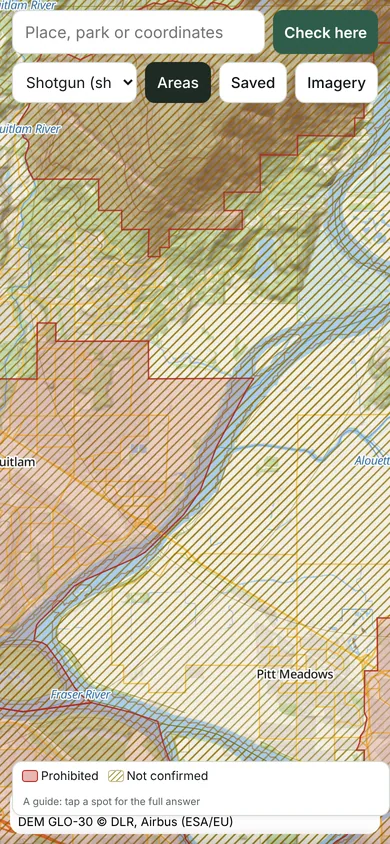
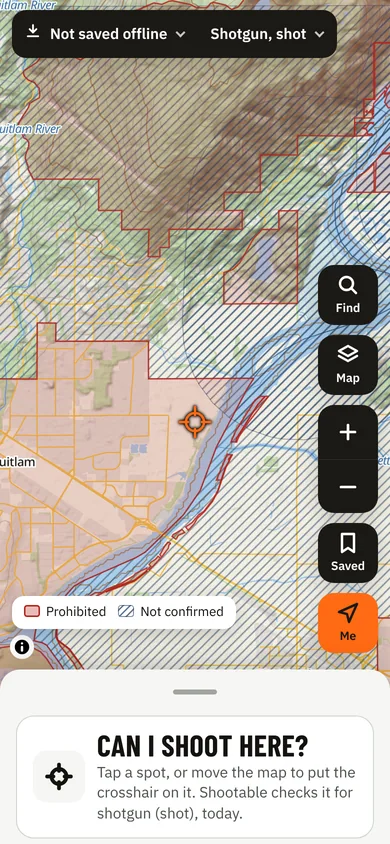
App screens recaptured on the new app and the Nov 8 BC pack (#8)
Mirrors shootable web/ (PR #44): Merritt answer opened with what applies there, Tri-Cities shading for rifle and
shotgun with shot, captions and alt text.

diff --git a/index.html b/index.html
@@ -461,11 +461,11 @@ dialog.ea::backdrop{background:rgba(20,18,15,.72)}
 </div>
 <div class="pair">
 <figure class="on" data-fig="rifle">
-<div class="phone"><img src="img/app-tricities-rifle.webp" srcset="img/app-tricities-rifle-1x.webp 390w, img/app-tricities-rifle.webp 780w" sizes="340px" width="390" height="844" loading="lazy" alt="Shootable's map of Coquitlam and Pitt Meadows with Rifle chosen: both towns shaded red for Prohibited, the hills to the north and the river corridors hatched for Not confirmed."></div>
+<div class="phone"><img src="img/app-tricities-rifle.webp" srcset="img/app-tricities-rifle-1x.webp 390w, img/app-tricities-rifle.webp 780w" sizes="340px" width="390" height="844" loading="lazy" alt="Shootable's map of Coquitlam and Pitt Meadows with Rifle chosen: both towns shaded red for Prohibited, the hills to the north and the river corridors hatched navy for Not confirmed."></div>
 <figcaption><b>Rifle</b><span>Coquitlam and Pitt Meadows ban rifles town-wide, so both towns are red.</span></figcaption>
 </figure>
 <figure data-fig="shot">
-<div class="phone"><img src="img/app-tricities-shot.webp" srcset="img/app-tricities-shot-1x.webp 390w, img/app-tricities-shot.webp 780w" sizes="340px" width="390" height="844" loading="lazy" alt="The same map with Shotgun with shot chosen: Coquitlam and Pitt Meadows now hatched for Not confirmed instead of red."></div>
+<div class="phone"><img src="img/app-tricities-shot.webp" srcset="img/app-tricities-shot-1x.webp 390w, img/app-tricities-shot.webp 780w" sizes="340px" width="390" height="844" loading="lazy" alt="The same map with Shotgun with shot chosen: Coquitlam and Pitt Meadows now hatched navy for Not confirmed instead of red."></div>
 <figcaption><b>Shotgun with shot</b><span>Their bylaws allow shot in mapped zones. Until Shootable has checked those maps, the towns are Not confirmed.</span></figcaption>
 </figure>
 </div>
@@ -474,7 +474,7 @@ dialog.ea::backdrop{background:rgba(20,18,15,.72)}
 <li><span class="sw un" aria-hidden="true"></span><b>Not confirmed</b>A boundary isn't checked yet, or a town's bylaw isn't verified.</li>
 <li><span class="sw cl" aria-hidden="true"></span><b>Unshaded</b>No rule Shootable checks bans it. Tap for the answer and the rules that apply everywhere.</li>
 </ul>
-<p class="fineprint">The shading is a guide built from the same rules as the answer. The answer for the spot you tap, with your GPS accuracy taken into account, is the one to go by. Real screens from the app, BC rules of Nov 4, 2026. Map © OpenStreetMap contributors.</p>
+<p class="fineprint">The shading is a guide built from the same rules as the answer. The answer for the spot you tap, with your GPS accuracy taken into account, is the one to go by. Real screens from the app, BC rules of Nov 8, 2026. Map © OpenStreetMap contributors.</p>
 </div>
 </section>
 
@@ -521,8 +521,8 @@ dialog.ea::backdrop{background:rgba(20,18,15,.72)}
      -120.9028, 50.0525, Crown land south of Merritt, answers No prohibition found with the conditions shown. When the pack
      changes, re-check the spot (node app/engine.js) and recapture; if it no longer answers clear, pick another spot. -->
 <figure>
-<div class="phone"><img src="img/app-merritt-rifle.webp" srcset="img/app-merritt-rifle-1x.webp 390w, img/app-merritt-rifle.webp 780w" sizes="340px" width="390" height="844" loading="lazy" alt="Shootable on a phone: a map of the hills south of Merritt with a pin on Crown land and the valley around Coldwater shaded Not confirmed. The answer for a rifle reads No prohibition found, with three conditions: stay more than 100 m from any dwelling, school, church or occupied farm building; don't shoot from a highway's road allowance; and the Thompson-Nicola noise bylaw."></div>
-<figcaption><b>Real app screen.</b> Rifle, Crown land south of Merritt, BC rules of Nov 4, 2026. Map © OpenStreetMap contributors.</figcaption>
+<div class="phone"><img src="img/app-merritt-rifle.webp" srcset="img/app-merritt-rifle-1x.webp 390w, img/app-merritt-rifle.webp 780w" sizes="340px" width="390" height="844" loading="lazy" alt="Shootable on a phone: a pin on Crown land in the hills south of Merritt. The answer card for a rifle reads No prohibition found, with what applies there too: stay more than 100 m from any dwelling, school, church or occupied farm building; don't shoot from a highway's road allowance; the Thompson-Nicola noise bylaw; and the road radio channel from the district planning map."></div>
+<figcaption><b>Real app screen.</b> Rifle, Crown land south of Merritt, BC rules of Nov 8, 2026. Map © OpenStreetMap contributors.</figcaption>
 </figure>
 <div>
 <div class="head">
